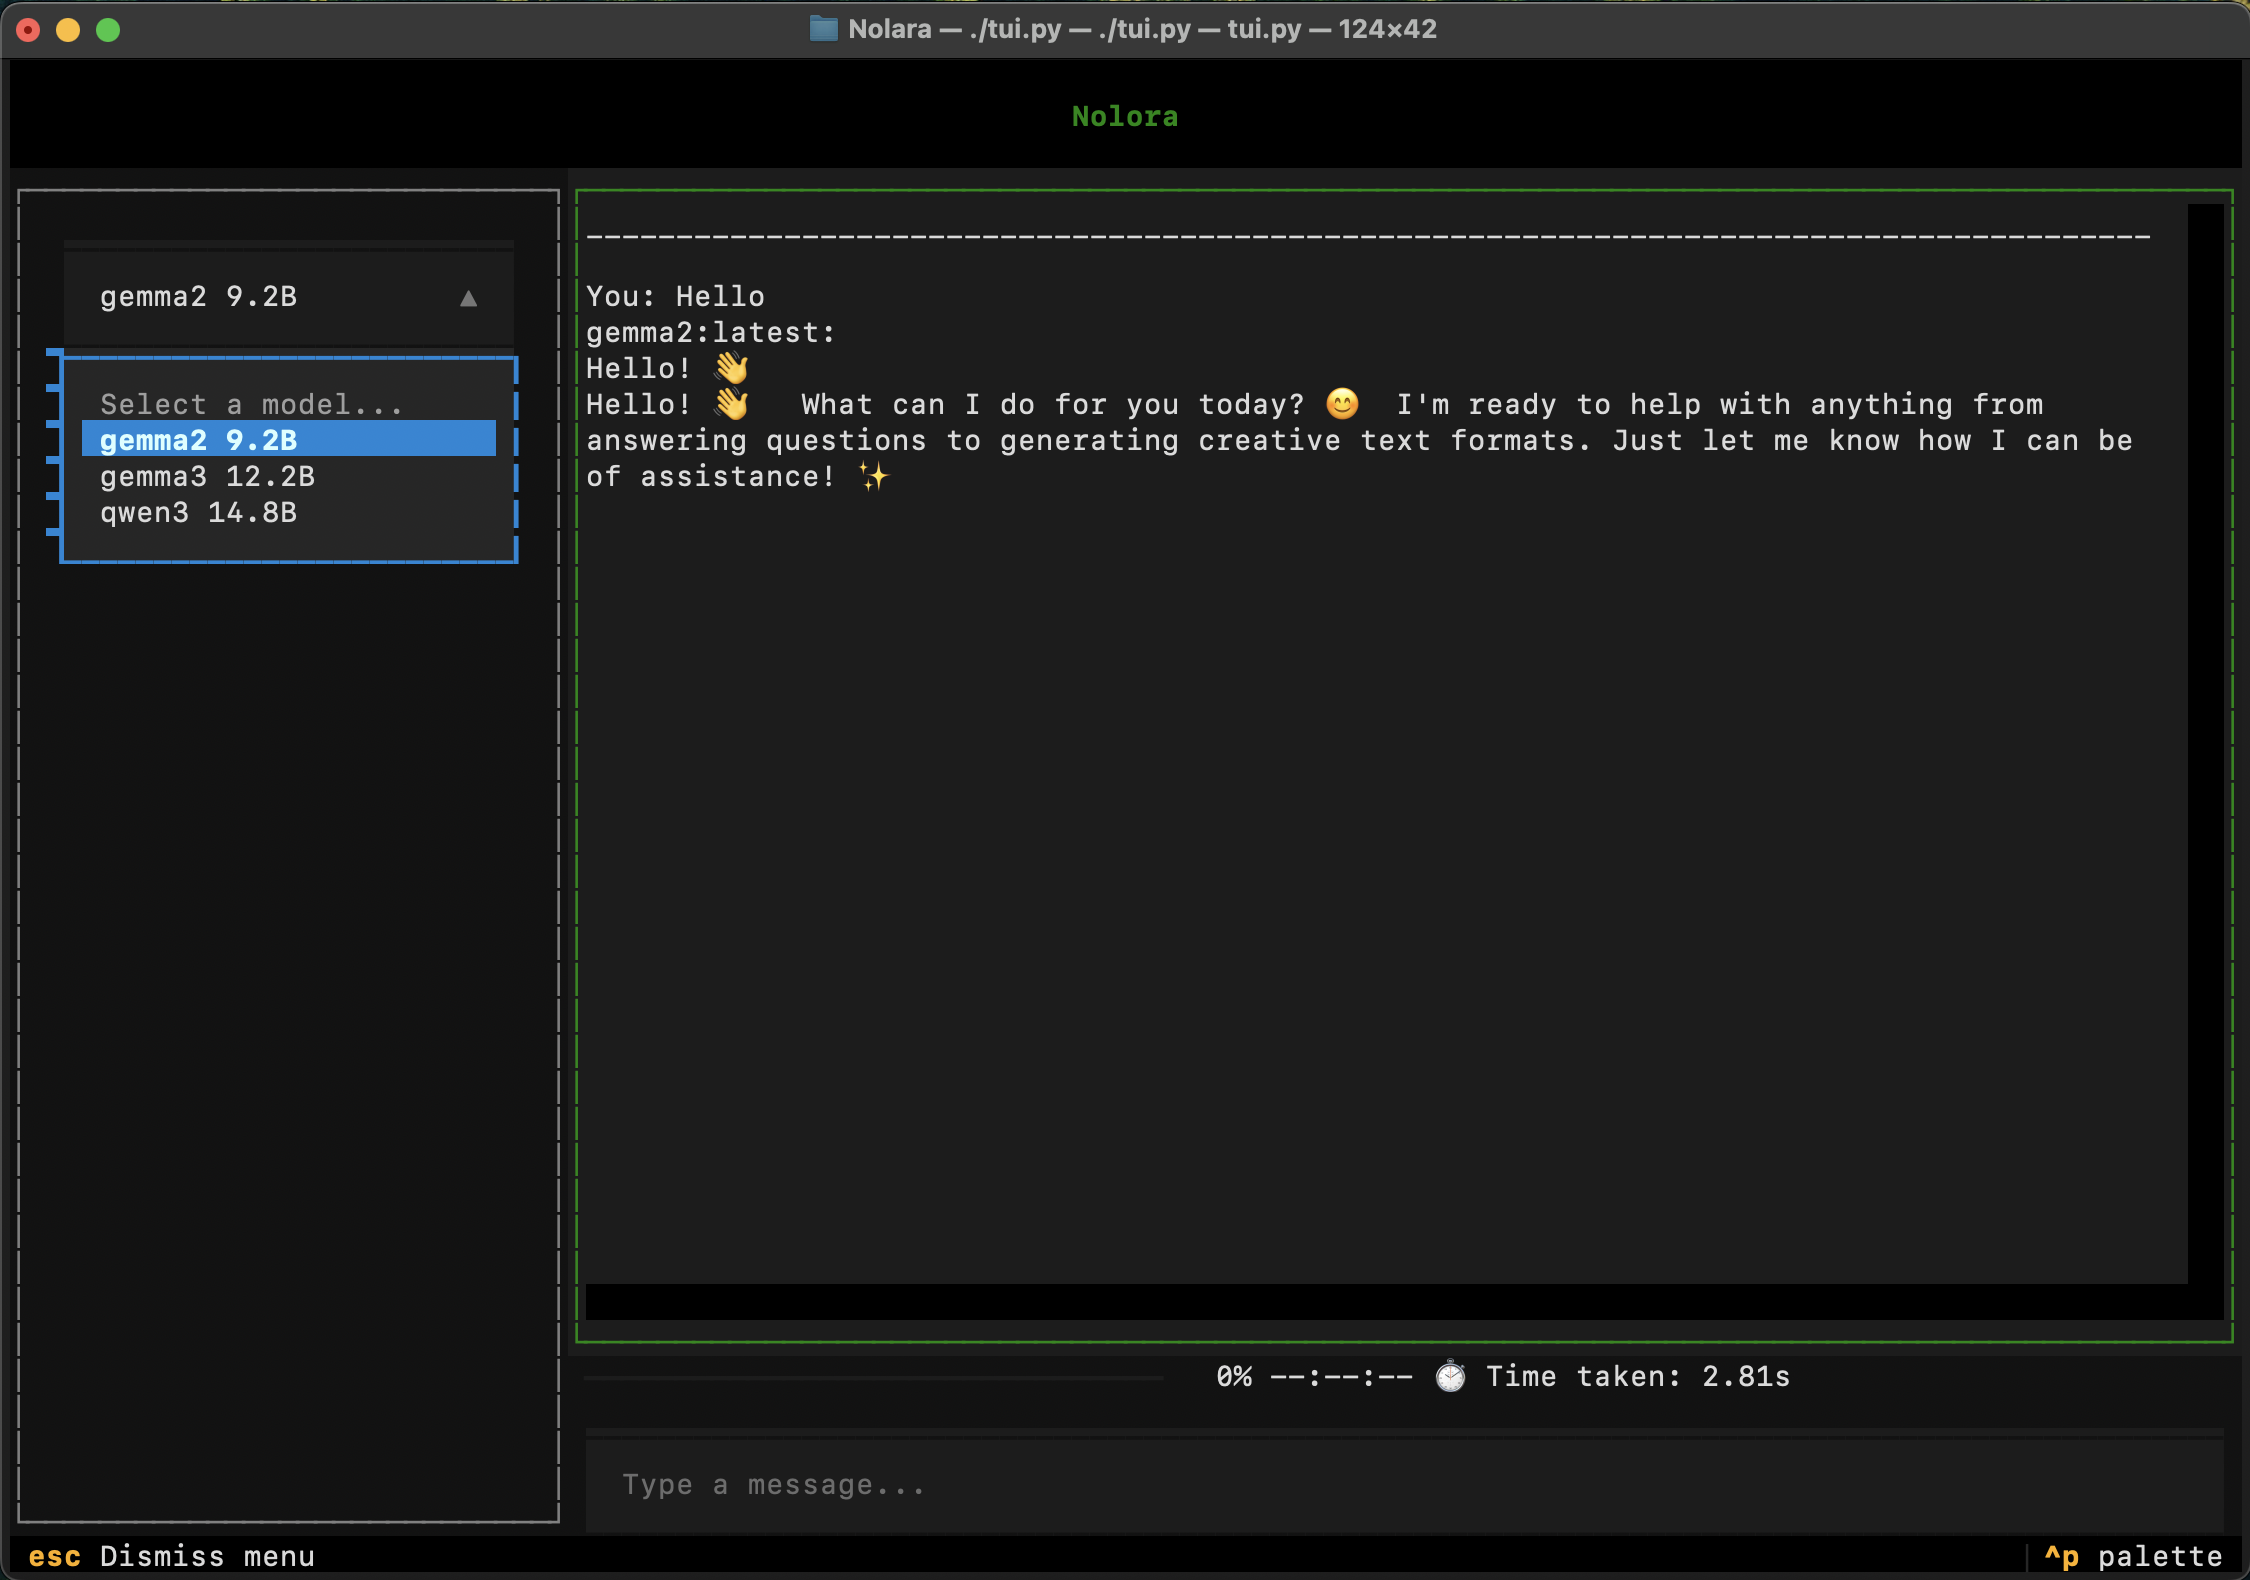
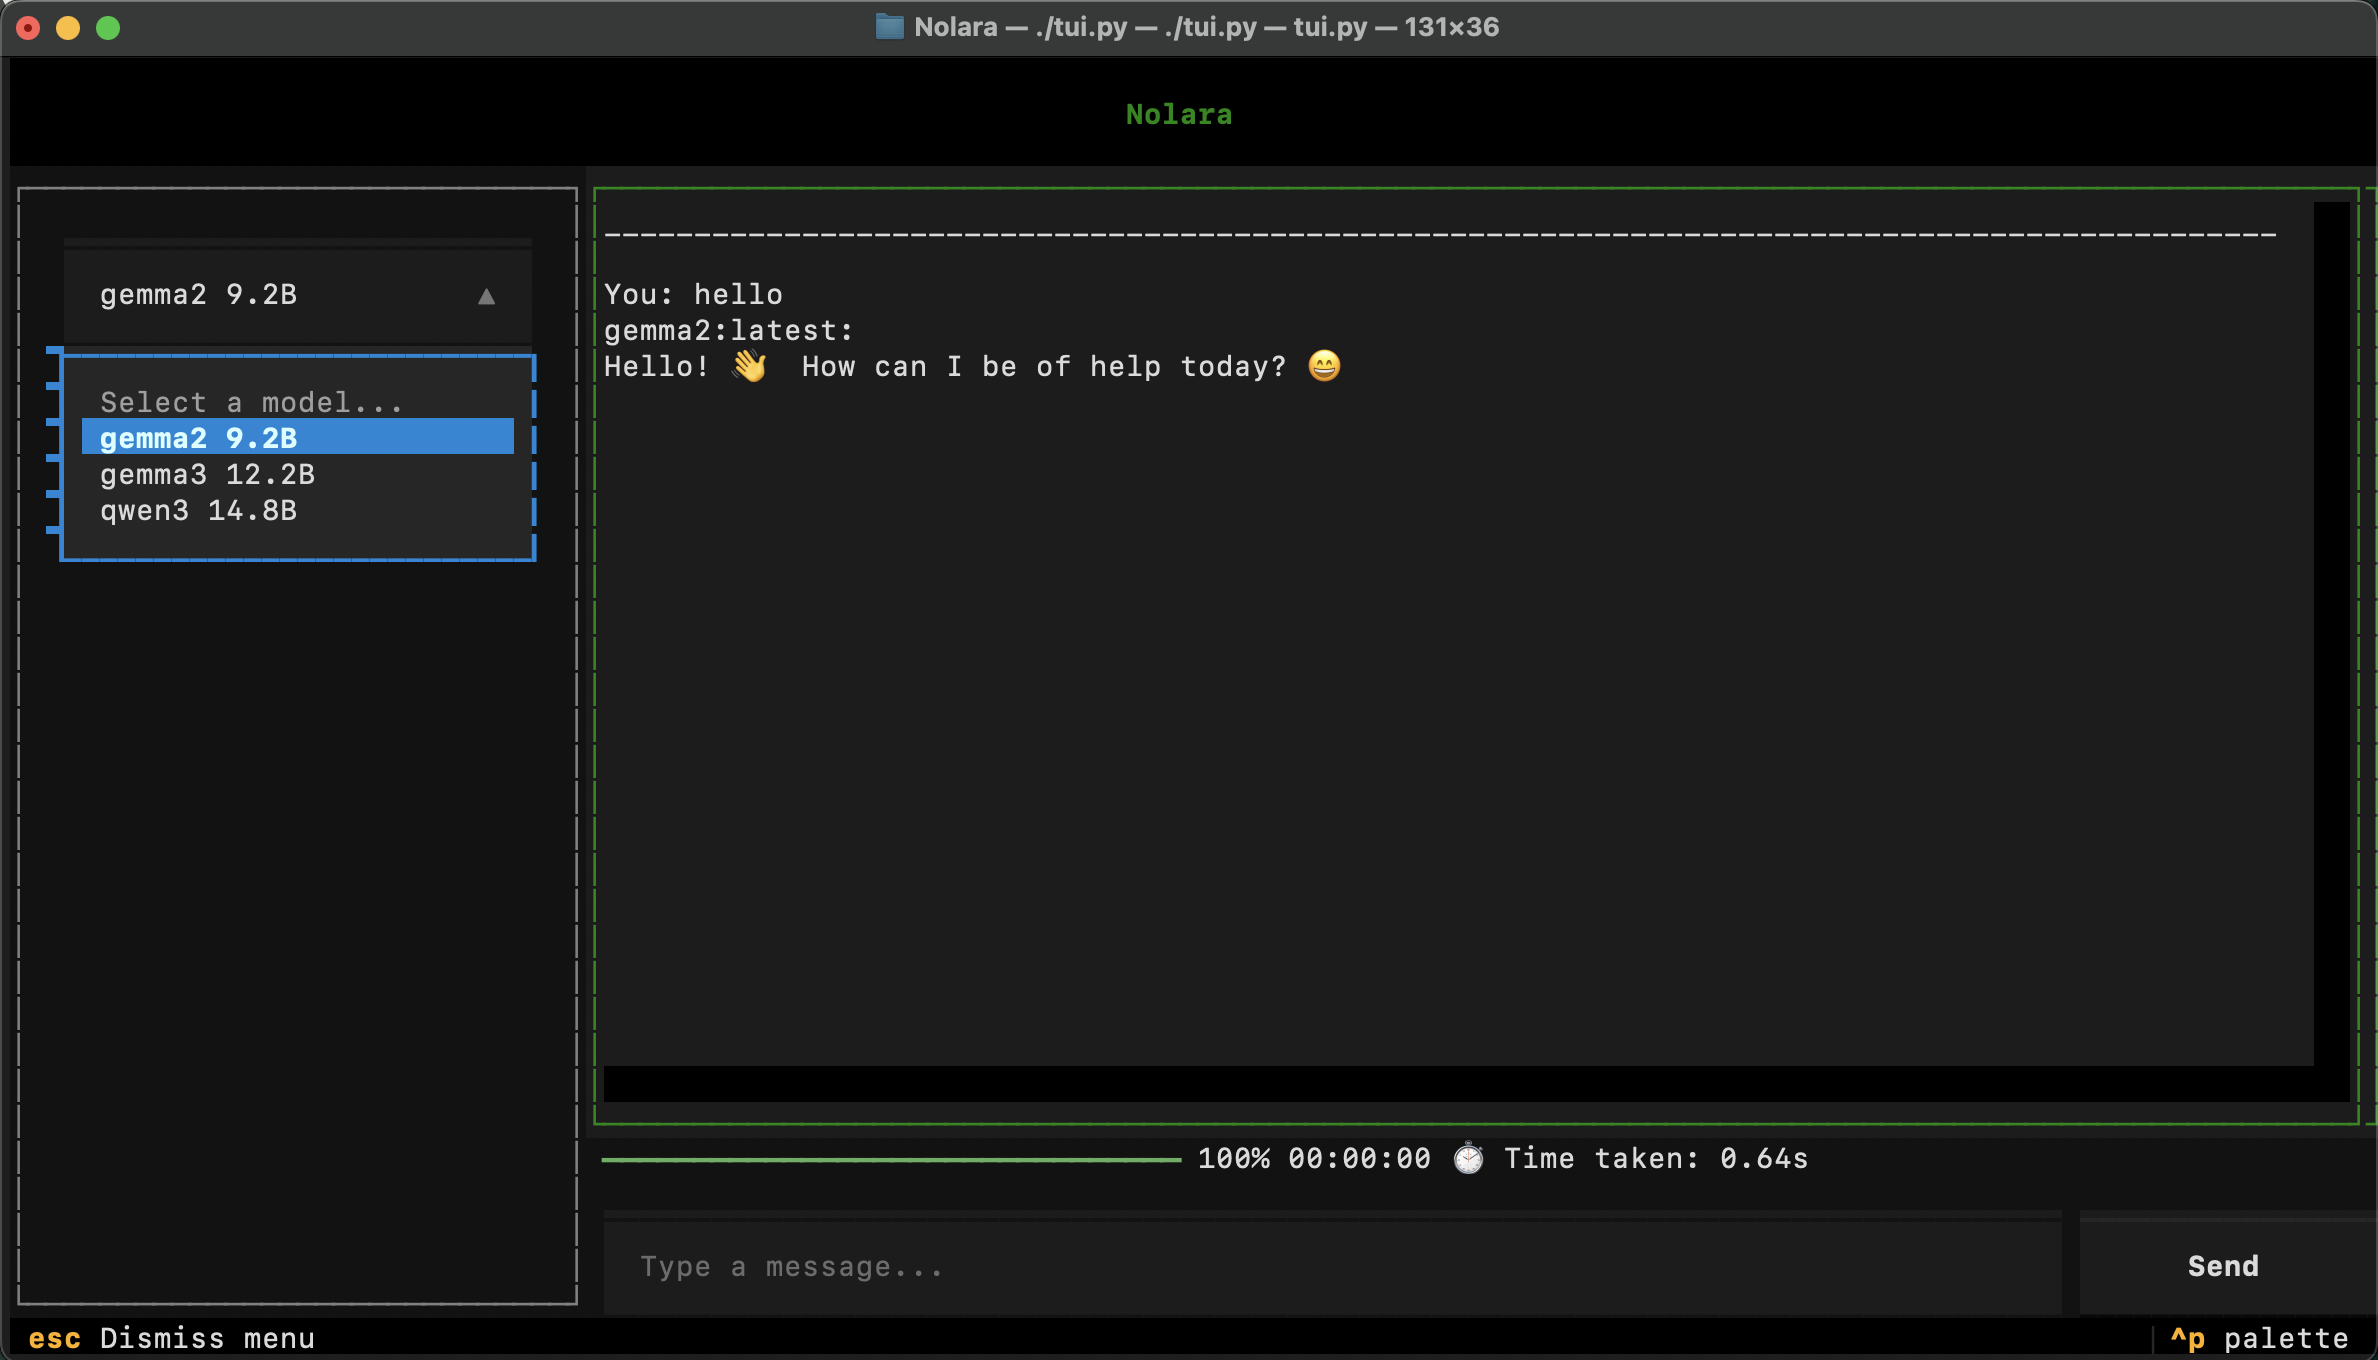
Improvemts of textual tui.py

Changed region(s): [[0.0, 0.0, 1.0, 1.0], [0.0, 0.9574, 0.2489, 1.0], [0.28, 0.9265, 0.4044, 0.9574]]

diff --git a/tui.py b/tui.py
@@ -20,7 +20,7 @@ def load_css():
     return textual_css
 
 
-class EchoChatApp(App):
+class AIChatApp(App):
     BINDINGS = [
         ("q", "quit", "Quit"),
         ("escape", "quit", "Quit"),
@@ -28,13 +28,16 @@ class EchoChatApp(App):
     CSS = load_css()
 
     def __init__(self):
-        super().__init__()
-        self.chatbot = None
+        self.chatbot:Chatbot.ChatOllama|None = None
         self.model_dropdown = Models.get_chat_models_dropdown()
-        self.progress = ProgressBar(total=100, id="progress-bar")
+        # Initialize global textual.widgets widgets
+        self.progress_bar = ProgressBar(total=100, id="progress-bar")
         self.timer_display = Static("⏱  Time taken: 0s", id="timer-display")
-        self.dropdown = None
-        self.chatbox = None
+        # Initialize global parameters for textual.widgets
+        self.chatbox:Log|None = None
+        self.input:Input|None = None
+        self.dropdown:Select|None = None
+        super().__init__()
 
     def init_model(self, model_name):
         if self.chatbot:
@@ -63,23 +66,22 @@ class EchoChatApp(App):
                 yield self.chatbox
 
                 with Horizontal(id="progress-line"):
-                    yield self.progress
+                    yield self.progress_bar
                     yield self.timer_display
 
                 with Horizontal(id="input_bar"):
                     self.input = Input(placeholder="Type a message...", id="input")
                     yield self.input
-                    yield Button("Send", id="send")
-                    yield Button("Quit", id="quit-button")
+                    yield Button("Send", id="send-button")
+                    # TODO Speaker button (Speak)
+                    # TODO Microphone button (Listen)
 
         # Footer showing keybindings (q or Esc to quit)
         yield Footer(id="app-footer")
 
     async def on_button_pressed(self, event: Button.Pressed) -> None:
-        if event.button.id == "send":
+        if event.button.id == "send-button":
             await self.process_message()
-        elif event.button.id == "quit-button":
-            self.exit()
 
     async def on_input_submitted(self, event: Input.Submitted) -> None:
         await self.process_message()
@@ -93,9 +95,11 @@ class EchoChatApp(App):
         self.init_model(selected_option)
 
         self.chatbox.write_line("_" * (self.chatbox.size.width-4))
+        await self.update_progress(10)
         self.chatbox.write_line(f"\nYou: {message}")
         start_time = time.time()
         response = self._chat_model_process(message)
+        await self.update_progress(80)
         duration = time.time() - start_time
         self.timer_display.update(f"⏱  Time taken: {duration:.2f}s")
 
@@ -105,12 +109,16 @@ class EchoChatApp(App):
         else:
             self.chatbox.write_line(f"{selected_option}: {response}")
 
-        # Animate progress bar
-        self.progress.progress = 100
-        await asyncio.sleep(0.3)
-        self.progress.progress = 0
+        # Animate progress bar - dummy
+        await self.update_progress(100)
+        await asyncio.sleep(0.1)
+        #self.progress_bar.progress = 0
 
         self.input.value = ""
+
+    async def update_progress(self, value):
+        self.progress_bar.progress = value
+        await asyncio.sleep(0.01)
 
     def _wrap_response(self, response):
         box_width = self.chatbox.size.width -4
@@ -125,13 +133,11 @@ class EchoChatApp(App):
         return wrapped_response
 
     def _chat_model_process(self, query, wrap=True):
-        self.progress.progress = 100
         if self.chatbot:
             state, response = self.chatbot.chat(query)
             response = response.message.content
         else:
             response = "No chatbot initialized"
-        self.progress.progress = 0
 
         if wrap:
             response = self._wrap_response(response)
@@ -143,4 +149,4 @@ class EchoChatApp(App):
 
 
 if __name__ == "__main__":
-    EchoChatApp().run()
+    AIChatApp().run()
